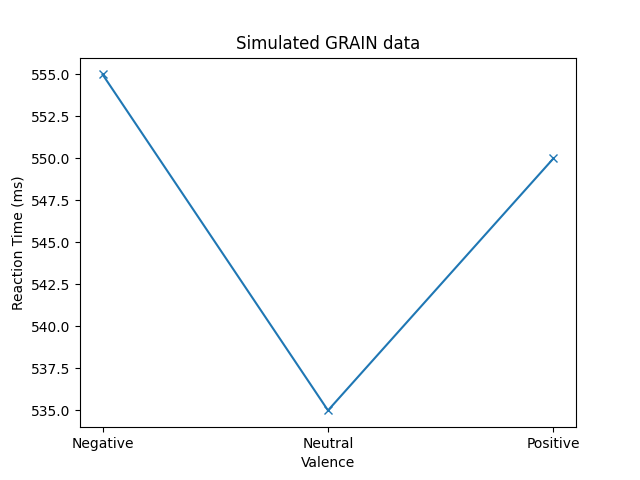
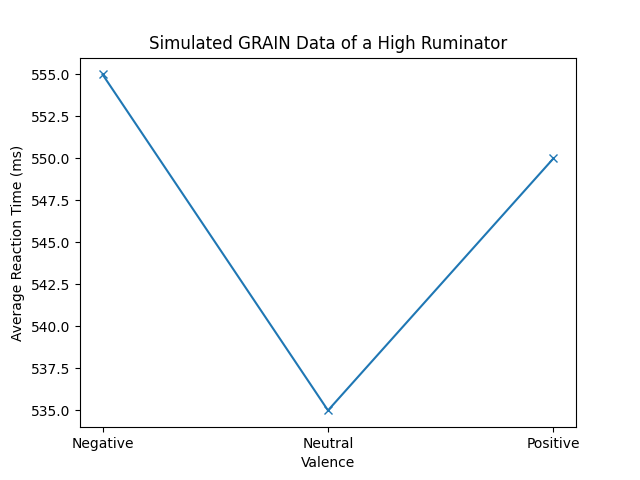
changed graphs

Changed region(s): [[0.2188, 0.0625, 0.7812, 0.125], [0.0, 0.3125, 0.0625, 0.7188]]

diff --git a/EmotionalGrain.py b/EmotionalGrain.py
@@ -822,16 +822,16 @@ if args.enable_plot:
     reg3 = np.dot(response_all6, 5) + 115
     plt.plot(reg3, '-x')
     plt.xlabel('Valence')
-    plt.title('Simulated GRAIN data')
+    plt.title('Simulated GRAIN Data of a High Ruminator')
     plt.xticks(np.arange(3), ('Negative', 'Neutral', 'Positive'))
-    plt.ylabel('Reaction Time (ms)')
+    plt.ylabel('Average Reaction Time (ms)')
     plt.show(block=not pnl._called_from_pytest)
 
     # show other emotion graph of a low ruminator
     reg4 = np.dot(response_all8, 5) + 115
     plt.plot(reg4, '-x')
     plt.xlabel('Valence')
-    plt.title('Simulated GRAIN data')
+    plt.title('Simulated GRAIN Data of a Low Ruminator')
     plt.xticks(np.arange(3), ('Negative', 'Neutral', 'Positive'))
-    plt.ylabel('Reaction Time (ms)')
+    plt.ylabel('Average Reaction Time (ms)')
     plt.show(block=not pnl._called_from_pytest)
